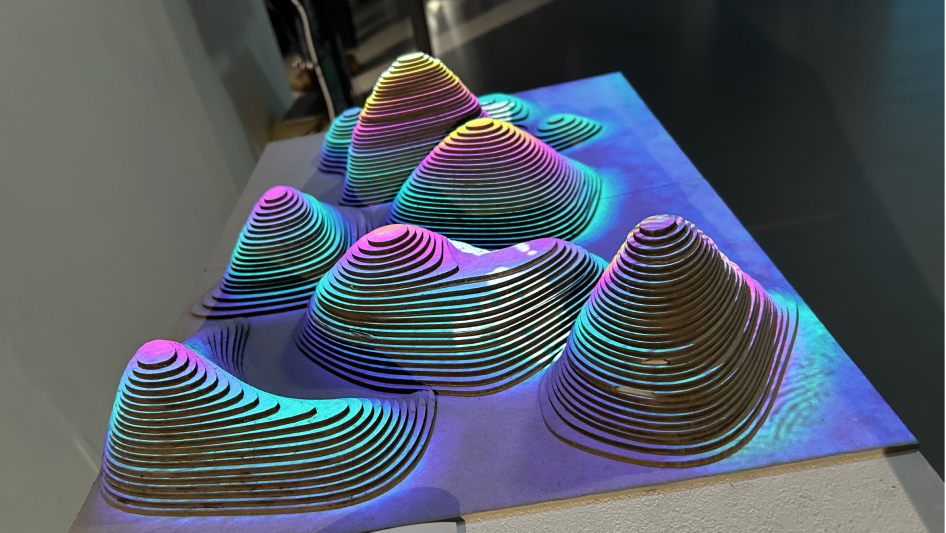
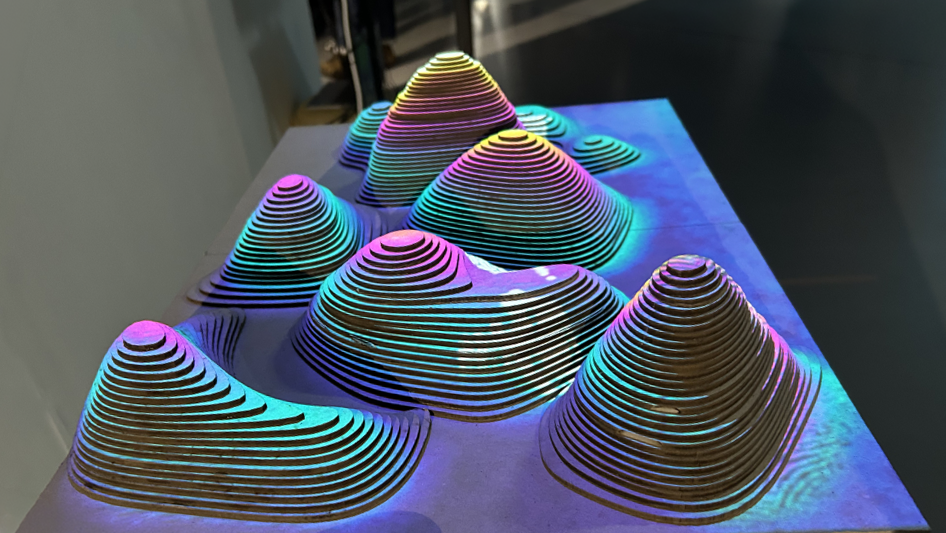
emergence update

diff --git a/emergence.html b/emergence.html
@@ -59,6 +59,9 @@
         <div class="slide">
           <img src="images/emergence/emergence_07.png" alt="Emergence_07">
         </div>
+           <div class="slide">
+          <img src="images/emergence/emergence_09.png" alt="Emergence_09">
+        </div>
         <div class="slide">
           <img src="images/emergence/emergence_06.jpeg" alt="Emergence_06">
         </div>
@@ -70,6 +73,7 @@
         <span class="dot"></span>
         <span class="dot"></span>
         <span class="dot"></span>
+         <span class="dot"></span>
       </div>
     </div>
 
@@ -127,6 +131,27 @@
       lines and exported it for laser cutting. After the laser cutting, we gathered the parts and glued them together.
       Our topography model was ready.</p>
 
+      <div class="slider">
+      <div class="slider-track">
+        <div class="slide">
+          <img src="images/emergence/emergence_13.png" alt="Emergence_13">
+        </div>
+        <div class="slide">
+          <img src="images/emergence/emergence_14.png" alt="Emergence_14">
+        </div>
+        <div class="slide">
+          <img src="images/emergence/emergence_11.png" alt="Emergence_11">
+        </div>
+      </div>
+      <button class="slider-btn prev" onclick="moveSlide(this, -1)">&#8249;</button>
+      <button class="slider-btn next" onclick="moveSlide(this, 1)">&#8250;</button>
+      <div class="slider-dots">
+        <span class="dot active"></span>
+        <span class="dot"></span>
+        <span class="dot"></span>
+      </div>
+    </div>
+
     <h3>Depth Detection with Kinect</h3>
 
     <p>We firstly used Kinect V2 2.0 and the issue we faced was that it was good at representing large distances of
@@ -145,7 +170,8 @@
       higher contrast in the output image. To do this, we increased the contrast between the maximum and minimum height
       difference. Finally we were able to get a clear depth image.</p>
 
-    <img src="images/emergence/emergence_01.png" alt="Depth detection output">
+    <img src="images/emergence/emergence_10.png" alt="Technical setup">
+
 
     <h3>Organic Growth Interaction</h3>
 
@@ -156,6 +182,9 @@
       so we did not need an extra webcam. For the renewal and the regeneration of the organic city growth, we used a
       timer that resets the canvas every 30 seconds. We integrated a mask where the lowest and highest parts of the
       terrain are blocked, so the growth wouldn't happen at those points.</p>
+
+
+       <img src="images/emergence/emergence_12.png" alt="Technical setup">
 
     <h2>Technical Details</h2>
 
@@ -205,31 +234,43 @@
   </footer>
 
   <script>
-    function moveSlide(btn, dir) {
-      const slider = btn.closest('.slider');
-      const track = slider.querySelector('.slider-track');
-      const slides = slider.querySelectorAll('.slide');
-      const dots = slider.querySelectorAll('.dot');
-      let current = parseInt(track.dataset.current || '0');
-      current = (current + dir + slides.length) % slides.length;
-      track.style.transform = `translateX(-${current * 100}%)`;
-      track.dataset.current = current;
-      dots.forEach((d, i) => d.classList.toggle('active', i === current));
+    function goToSlide(slider, index) {
+      const track = slider.querySelector(".slider-track");
+      const slides = slider.querySelectorAll(".slide");
+      const dots = slider.querySelectorAll(".dot");
+      const slideWidth = slides[0].offsetWidth;
+      const gap = 8;
+      const offset = (slider.offsetWidth - slideWidth) / 2 - index * (slideWidth + gap);
+      track.style.transform = "translateX(" + offset + "px)";
+      track.dataset.current = index;
+      dots.forEach((d, i) => d.classList.toggle("active", i === index));
+      slides.forEach((s, i) => s.classList.toggle("active", i === index));
     }
 
-    document.querySelectorAll('.slider-dots .dot').forEach((dot, i) => {
-      dot.addEventListener('click', () => {
-        const slider = dot.closest('.slider');
-        const track = slider.querySelector('.slider-track');
-        const dots = slider.querySelectorAll('.dot');
-        track.style.transform = `translateX(-${i * 100}%)`;
-        track.dataset.current = i;
-        dots.forEach((d, j) => d.classList.toggle('active', j === i));
+    function moveSlide(btn, dir) {
+      const slider = btn.closest(".slider");
+      const slides = slider.querySelectorAll(".slide");
+      let current = parseInt(slider.querySelector(".slider-track").dataset.current || "0");
+      current = (current + dir + slides.length) % slides.length;
+      goToSlide(slider, current);
+    }
+
+    document.querySelectorAll(".slider").forEach(slider => {
+      goToSlide(slider, 0);
+      slider.querySelectorAll(".slider-dots .dot").forEach((dot, i) => {
+        dot.addEventListener("click", () => goToSlide(slider, i));
       });
     });
 
-    document.querySelector('.nav-burger').addEventListener('click', () => {
-      document.querySelector('.nav-links').classList.toggle('open');
+    window.addEventListener("resize", () => {
+      document.querySelectorAll(".slider").forEach(slider => {
+        const current = parseInt(slider.querySelector(".slider-track").dataset.current || "0");
+        goToSlide(slider, current);
+      });
+    });
+
+    document.querySelector(".nav-burger").addEventListener("click", () => {
+      document.querySelector(".nav-links").classList.toggle("open");
     });
   </script>
 

diff --git a/kinopolis.html b/kinopolis.html
@@ -255,31 +255,43 @@
   </footer>
 
   <script>
-    function moveSlide(btn, dir) {
-      const slider = btn.closest('.slider');
-      const track = slider.querySelector('.slider-track');
-      const slides = slider.querySelectorAll('.slide');
-      const dots = slider.querySelectorAll('.dot');
-      let current = parseInt(track.dataset.current || '0');
-      current = (current + dir + slides.length) % slides.length;
-      track.style.transform = `translateX(-${current * 100}%)`;
-      track.dataset.current = current;
-      dots.forEach((d, i) => d.classList.toggle('active', i === current));
+    function goToSlide(slider, index) {
+      const track = slider.querySelector(".slider-track");
+      const slides = slider.querySelectorAll(".slide");
+      const dots = slider.querySelectorAll(".dot");
+      const slideWidth = slides[0].offsetWidth;
+      const gap = 8;
+      const offset = (slider.offsetWidth - slideWidth) / 2 - index * (slideWidth + gap);
+      track.style.transform = "translateX(" + offset + "px)";
+      track.dataset.current = index;
+      dots.forEach((d, i) => d.classList.toggle("active", i === index));
+      slides.forEach((s, i) => s.classList.toggle("active", i === index));
     }
 
-    document.querySelectorAll('.slider-dots .dot').forEach((dot, i) => {
-      dot.addEventListener('click', () => {
-        const slider = dot.closest('.slider');
-        const track = slider.querySelector('.slider-track');
-        const dots = slider.querySelectorAll('.dot');
-        track.style.transform = `translateX(-${i * 100}%)`;
-        track.dataset.current = i;
-        dots.forEach((d, j) => d.classList.toggle('active', j === i));
+    function moveSlide(btn, dir) {
+      const slider = btn.closest(".slider");
+      const slides = slider.querySelectorAll(".slide");
+      let current = parseInt(slider.querySelector(".slider-track").dataset.current || "0");
+      current = (current + dir + slides.length) % slides.length;
+      goToSlide(slider, current);
+    }
+
+    document.querySelectorAll(".slider").forEach(slider => {
+      goToSlide(slider, 0);
+      slider.querySelectorAll(".slider-dots .dot").forEach((dot, i) => {
+        dot.addEventListener("click", () => goToSlide(slider, i));
       });
     });
 
-    document.querySelector('.nav-burger').addEventListener('click', () => {
-      document.querySelector('.nav-links').classList.toggle('open');
+    window.addEventListener("resize", () => {
+      document.querySelectorAll(".slider").forEach(slider => {
+        const current = parseInt(slider.querySelector(".slider-track").dataset.current || "0");
+        goToSlide(slider, current);
+      });
+    });
+
+    document.querySelector(".nav-burger").addEventListener("click", () => {
+      document.querySelector(".nav-links").classList.toggle("open");
     });
   </script>
 

diff --git a/pytko_June25.html b/pytko_June25.html
@@ -104,31 +104,43 @@
   </footer>
 
   <script>
-    function moveSlide(btn, dir) {
-      const slider = btn.closest('.slider');
-      const track = slider.querySelector('.slider-track');
-      const slides = slider.querySelectorAll('.slide');
-      const dots = slider.querySelectorAll('.dot');
-      let current = parseInt(track.dataset.current || '0');
-      current = (current + dir + slides.length) % slides.length;
-      track.style.transform = `translateX(-${current * 100}%)`;
-      track.dataset.current = current;
-      dots.forEach((d, i) => d.classList.toggle('active', i === current));
+    function goToSlide(slider, index) {
+      const track = slider.querySelector(".slider-track");
+      const slides = slider.querySelectorAll(".slide");
+      const dots = slider.querySelectorAll(".dot");
+      const slideWidth = slides[0].offsetWidth;
+      const gap = 8;
+      const offset = (slider.offsetWidth - slideWidth) / 2 - index * (slideWidth + gap);
+      track.style.transform = "translateX(" + offset + "px)";
+      track.dataset.current = index;
+      dots.forEach((d, i) => d.classList.toggle("active", i === index));
+      slides.forEach((s, i) => s.classList.toggle("active", i === index));
     }
 
-    document.querySelectorAll('.slider-dots .dot').forEach((dot, i) => {
-      dot.addEventListener('click', () => {
-        const slider = dot.closest('.slider');
-        const track = slider.querySelector('.slider-track');
-        const dots = slider.querySelectorAll('.dot');
-        track.style.transform = `translateX(-${i * 100}%)`;
-        track.dataset.current = i;
-        dots.forEach((d, j) => d.classList.toggle('active', j === i));
+    function moveSlide(btn, dir) {
+      const slider = btn.closest(".slider");
+      const slides = slider.querySelectorAll(".slide");
+      let current = parseInt(slider.querySelector(".slider-track").dataset.current || "0");
+      current = (current + dir + slides.length) % slides.length;
+      goToSlide(slider, current);
+    }
+
+    document.querySelectorAll(".slider").forEach(slider => {
+      goToSlide(slider, 0);
+      slider.querySelectorAll(".slider-dots .dot").forEach((dot, i) => {
+        dot.addEventListener("click", () => goToSlide(slider, i));
       });
     });
 
-    document.querySelector('.nav-burger').addEventListener('click', () => {
-      document.querySelector('.nav-links').classList.toggle('open');
+    window.addEventListener("resize", () => {
+      document.querySelectorAll(".slider").forEach(slider => {
+        const current = parseInt(slider.querySelector(".slider-track").dataset.current || "0");
+        goToSlide(slider, current);
+      });
+    });
+
+    document.querySelector(".nav-burger").addEventListener("click", () => {
+      document.querySelector(".nav-links").classList.toggle("open");
     });
   </script>
 

diff --git a/pytko_Sept25.html b/pytko_Sept25.html
@@ -155,31 +155,43 @@
   </footer>
 
   <script>
-    function moveSlide(btn, dir) {
-      const slider = btn.closest('.slider');
-      const track = slider.querySelector('.slider-track');
-      const slides = slider.querySelectorAll('.slide');
-      const dots = slider.querySelectorAll('.dot');
-      let current = parseInt(track.dataset.current || '0');
-      current = (current + dir + slides.length) % slides.length;
-      track.style.transform = `translateX(-${current * 100}%)`;
-      track.dataset.current = current;
-      dots.forEach((d, i) => d.classList.toggle('active', i === current));
+    function goToSlide(slider, index) {
+      const track = slider.querySelector(".slider-track");
+      const slides = slider.querySelectorAll(".slide");
+      const dots = slider.querySelectorAll(".dot");
+      const slideWidth = slides[0].offsetWidth;
+      const gap = 8;
+      const offset = (slider.offsetWidth - slideWidth) / 2 - index * (slideWidth + gap);
+      track.style.transform = "translateX(" + offset + "px)";
+      track.dataset.current = index;
+      dots.forEach((d, i) => d.classList.toggle("active", i === index));
+      slides.forEach((s, i) => s.classList.toggle("active", i === index));
     }
 
-    document.querySelectorAll('.slider-dots .dot').forEach((dot, i) => {
-      dot.addEventListener('click', () => {
-        const slider = dot.closest('.slider');
-        const track = slider.querySelector('.slider-track');
-        const dots = slider.querySelectorAll('.dot');
-        track.style.transform = `translateX(-${i * 100}%)`;
-        track.dataset.current = i;
-        dots.forEach((d, j) => d.classList.toggle('active', j === i));
+    function moveSlide(btn, dir) {
+      const slider = btn.closest(".slider");
+      const slides = slider.querySelectorAll(".slide");
+      let current = parseInt(slider.querySelector(".slider-track").dataset.current || "0");
+      current = (current + dir + slides.length) % slides.length;
+      goToSlide(slider, current);
+    }
+
+    document.querySelectorAll(".slider").forEach(slider => {
+      goToSlide(slider, 0);
+      slider.querySelectorAll(".slider-dots .dot").forEach((dot, i) => {
+        dot.addEventListener("click", () => goToSlide(slider, i));
       });
     });
 
-    document.querySelector('.nav-burger').addEventListener('click', () => {
-      document.querySelector('.nav-links').classList.toggle('open');
+    window.addEventListener("resize", () => {
+      document.querySelectorAll(".slider").forEach(slider => {
+        const current = parseInt(slider.querySelector(".slider-track").dataset.current || "0");
+        goToSlide(slider, current);
+      });
+    });
+
+    document.querySelector(".nav-burger").addEventListener("click", () => {
+      document.querySelector(".nav-links").classList.toggle("open");
     });
   </script>
 

diff --git a/style.css b/style.css
@@ -612,6 +612,20 @@ a { color: inherit; text-decoration: none; }
 .project-content .slider,
 .project-content .video-wrapper { margin: 24px 0; }
 
+.project-content .slider {
+  margin-left: -48px;
+  margin-right: -48px;
+  width: calc(100% + 96px);
+}
+
+@media (max-width: 768px) {
+  .project-content .slider {
+    margin-left: -24px;
+    margin-right: -24px;
+    width: calc(100% + 48px);
+  }
+}
+
 /* Code blocks */
 .box {
   background: var(--bg-card);
@@ -701,10 +715,25 @@ a { color: inherit; text-decoration: none; }
 /* ── IMAGES (keep existing slider compat) ── */
 img { width: 100%; height: auto; display: block; }
 
-.slider { position: relative; overflow: hidden; width: 100%; margin-bottom: 30px; }
-.slider-track { display: flex; transition: transform 0.4s ease; }
-.slide { min-width: 100%; box-sizing: border-box; }
-.slide img { width: 100%; height: auto; display: block; }
+.slider {
+  position: relative;
+  overflow: hidden;
+  width: 100%;
+  margin-bottom: 30px;
+  -webkit-mask-image: linear-gradient(to right, transparent 0%, black 16%, black 84%, transparent 100%);
+  mask-image: linear-gradient(to right, transparent 0%, black 16%, black 84%, transparent 100%);
+}
+.slider-track { display: flex; gap: 8px; transition: transform 0.5s cubic-bezier(0.25, 0.46, 0.45, 0.94); }
+.slide { min-width: 88%; flex-shrink: 0; box-sizing: border-box; transition: opacity 0.4s; opacity: 0.35; }
+.slide.active { opacity: 1; }
+.slide img {
+  width: 100%;
+  height: 70vh;
+  max-height: 720px;
+  object-fit: contain;
+  display: block;
+  background: var(--bg);
+}
 
 .video-wrapper { position: relative; width: 100%; padding-bottom: 56.25%; height: 0; }
 .video-wrapper iframe { position: absolute; top: 0; left: 0; width: 100%; height: 100%; border: 0; }

diff --git a/index.html b/index.html
@@ -90,7 +90,7 @@
 
         <a href="emergence.html" class="work-card" data-tags="computational-art creative-coding 3d-design">
           <div class="work-img-wrap">
-            <img src="images/emergence/emergence_08.png" alt="Emergence">
+            <img src="images/emergence/emergence_02.png" alt="Emergence">
             <div class="work-overlay">
               <span class="work-tag">Creative Computing</span>
               <span class="work-tag-soft">Blender · TouchDesigner</span>
